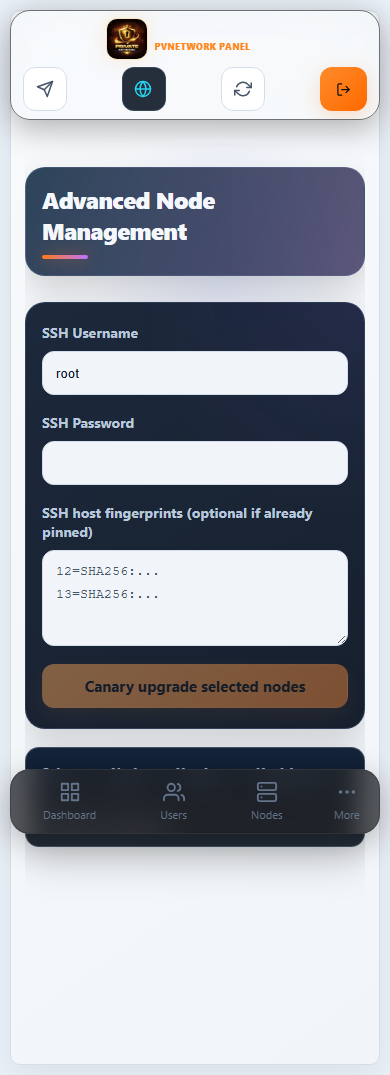
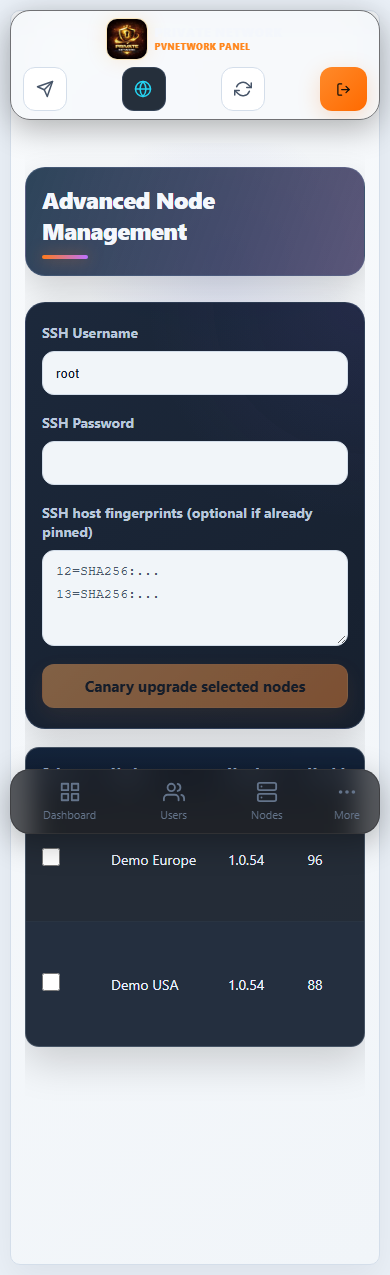
docs(PVN-1039): record verified deployment and public bootstrap evidence

diff --git a/docs/VALIDATION-v1.0.55.md b/docs/VALIDATION-v1.0.55.md
@@ -1,5 +1,21 @@
 # v1.0.55 validation checkpoint — PVN-1039
 
+Status: **verified QA; owner-authorized limited Production update complete**. Public supported stable remains v1.0.37. This checkpoint does not claim all broader mission/infrastructure/security-workbench gates are complete.
+
+## Final immutable release and execution
+
[1 lines of base64/hex data omitted]
+- Exact final source [push CI 39036177066](https://github.com/DashSaman/OV-PvNetwork/actions/runs/39036177066), [PR CI 39036180389](https://github.com/DashSaman/OV-PvNetwork/actions/runs/39036180389) and [tag CI 39036905674](https://github.com/DashSaman/OV-PvNetwork/actions/runs/39036905674) all passed four jobs. 729 discovered tests/80 explicit skips, separate 82 root fixtures, 38 security and 37 router tests/one explicit SSH skip; real dual-auth handshake, dependency audits and browser gates passed. The exact profile chooser probe made 8 actual browser downloads in 4 EN/FA/theme cases, and 24 real Jinja QR cases passed click/Enter/Space at native zoom levels. The final docs-only correction restored the README update entrypoint required by CI; no gate was removed.
+- [Official public bootstrap 39036984460](https://github.com/DashSaman/OV-PvNetwork/actions/runs/39036984460) passed all 3 real native distribution jobs: Ubuntu 22.04/24.04 and Debian 12. Each logged `public_bootstrap:true`, the exact SHA256 above, fresh/repeat preservation, systemd/proxy/UI/SQLite permissions and installed CLI PASS. These are disposable Setup Mode guests, not proof of public ACME/ARM/external-VPS networking.
+- Root-owned native PostgreSQL preflight backup `20261017-132259` restored/fingerprinted32 tables and verified5 runtime files/checksums. Exact canary restored an isolated clone, applied only the attested `h0a1b2c3d4e5 → i1b2c3d4e5f6` additive migration, and verified health/current UI bytes while the active application remained1.0.40. The final quiesced verified rollback backup is `20261017-134222`, retained privately under the native backup root and pinned by the transaction.
+- Owner-authorized limited native update then activated1.0.55. Durable transaction is `complete`, deployment receipt `VERIFIED`; local/public health, exact UI assets, authenticated read-only API and an existing assigned cached profile download all PASS. CA/certificate/private-key blocks and the node's cached profile remained unchanged; no account/profile provisioning was needed for the probe. Rooted adoption and the additive migration completed; no node adoption or firewall operation occurred.
+- All 74 user,1 admin, 4 node and 285 assignment identities were preserved. Runtime environment and VPN configuration hashes are byte-identical to preflight; the existing credential-key alias/target identity and all running co-hosted service MainPIDs were preserved by the deployment guard. Only the panel's required restart and managed Nginx graceful reload occurred; live VPN/old-node/PostgreSQL MainPIDs stayed unchanged. Panel automatic restart count is0; this counter does not count the intentional lifecycle restart.
+- Health sampling observed249 nonhealthy samples across a **267.99-second panel maintenance span** (about 4 min 28 s; nominal1-second delay plus request latency). This is measured panel availability, not a claim of zero downtime or interrupted VPN sessions. Final read-only check at2026-10-17T13:48:54Z: local/public200/version1.0.55, revision`i1b2c3d4e5f6`, all identity counts unchanged, no recent panel traceback/5xx lines. Installed `version`, `status` and `doctor` passed in both EN/FA (6 commands), preserving env and panel PID.
+- English/Persian README and UI/install/node/CLI/update guides are on main with80 synthetic current images. Four Fleet captures now show synthetic healthy/draining node rows rather than an empty table; phone instructions explain horizontal table scrolling. Local relative-link/anchor, PNG integrity/width, privacy-marker, node syntax and diff checks passed. No Production screenshots, profiles, raw diagnostics or credentials were published.
+
+فارسی: استقرار محدود و مجاز نسخه دقیق1.0.55 موفق است. سلامت محلی/عمومی، دانلود پروفایل موجود و شش بررسی CLI فارسی/انگلیسی پاس شدهاند. هویت حسابها، تخصیصها، کلیدها، تنظیمات و سرویسهای دیگر حفظ شدند؛ بازه اندازهگیریشده maintenance پنل حدود ۴ دقیقه و ۲۸ ثانیه بود. نسخه عمومی هنوز QA است و پایان تمام gateهای مأموریت اعلام نشده است.
+
+
 ## Scope and reproduced failure
 
 The owner authorized continuing the limited panel update with short panel maintenance. The exact immutable v1.0.54 attempt stopped before activation: the native snapshot rejected changing `data/app.log` during the PostgreSQL backup. The existing application remained v1.0.40. Metadata inspection identified only that append-only diagnostic log as changing; credential/push keys and SSH trust were stable. No new VPN/node/firewall changes are part of this authorization.
@@ -13,10 +29,10 @@ The patch excludes exactly `data/app.log` from native restorable runtime/source 
 - Local applicable metadata/brand/rename contracts: 18 pass. Native durable snapshot fixtures require Linux; Windows is not a substitute for those tests. Local frontend quiet lint and production build pass; largest JS chunk remains 987,783 bytes under the existing 990,000-byte gate.
 - Documentation: both READMEs, English/Persian illustrated UI, installation, node, CLI and update/recovery guides refreshed. 80 synthetic current captures cover 20 views × EN/FA × desktop/phone. The actual browser capture scripts and real Jinja subscription template use synthetic fixtures, abort external HTTP requests and include no Production data. Contact sheets and representative full-resolution forms inspected. Local relative links/anchors, PNG integrity/widths, Markdown fences and explicit private-marker checks passed. Documentation screenshots do not certify backend workflows or the complete responsive/accessibility matrix.
 
-## Remaining release gates
+## Broader limits and earlier gate checkpoint
 
-Final exact commit CI/artifact checksum, immutable QA publication and anonymous re-download, public bootstrap on the three supported distributions, fresh native PostgreSQL backup/restore rehearsal, exact canary and the authorized limited panel deployment/post-checks remain gates until results are recorded here. Do not infer Production activation from a GitHub merge or QA release.
+The final exact CI/artifact/public bootstrap/native backup/canary and authorized limited deployment gates listed at the initial source checkpoint are now satisfied by the evidence above. Stable promotion of the broader mission still requires resolving the explicitly uncompleted infrastructure/security-workbench items below. A GitHub merge or QA release alone is not Production evidence.
 
 Inherited evidence and limits are retained in [v1.0.54 validation](VALIDATION-v1.0.54.md). Public ACME issuance, ARM and a separate empty external VPS have not been fully validated in this mission. The original native security workbench remains partial/unsealed; five validated findings were fixed in v1.0.46/v1.0.50. No independent completed security certificate or formal FINAL/100% claim is made.
 
-فارسی: خطای تغییر همزمان لاگ روی Linux بازتولید و پس از اصلاح محدود، هر سه آزمون بکاپ/بازیابی و کنترل ثبات پاس شدند. مستندات دوزبانه و ۸۰ تصویر فقط Demo هستند. فعالسازی Production، انتشار پایدار و پایان کامل مأموریت تا ثبت gateهای باقیمانده اعلام نشدهاند.
+فارسی: خطای تغییر همزمان لاگ روی Linux بازتولید و پس از اصلاح محدود، هر سه آزمون بکاپ/بازیابی و کنترل ثبات پاس شدند. مستندات دوزبانه و ۸۰ تصویر فقط Demo هستند. فعالسازی محدود Production طبق شواهد بالای این گزارش کامل شده است؛ انتشار پایدار و پایان کل مأموریت همچنان به gateهای گستردهتر وابستهاند.

diff --git a/AGENTS.md b/AGENTS.md
@@ -72,7 +72,7 @@ Before implementation, record the task and target release here **and commit/push
 
 ### Active release ledger
 
-- `v1.0.55` — [~] IN_PROGRESS — `PVN-1039` active diagnostic log isolation in native snapshots. The owner authorized the limited panel update/short maintenance; the exact v1.0.54 update stopped before activation when `data/app.log` changed during the native database snapshot. Live application remains v1.0.40. Exclude only that known append-only diagnostic file from the restorable runtime and source snapshots; retain unknown `.log` files, SSH trust and credential/push keys with unchanged consistency checks. Real Linux synthetic fixtures reproduced the exact failure, then all three passed after the correction: active-log backup plus actual SQLite restore, changed-key refusal and unknown-log refusal. No Production identity/config/key/node/firewall mutation by the correction. Final exact artifact, CI, public bootstrap, fresh verified rollback point, canary and authorized limited deployment remain required. Bilingual illustrated documentation is part of this active task. Documentation prepared: refreshed English/Persian README and step-by-step UI, install, node, CLI and update/recovery manuals; 80 synthetic current captures (20 views × two languages × desktop/phone), source/template capture helpers, 227 local documentation links checked and explicit private-marker scan clean. No Production screenshots/customer data used. Documentation is not a service execution certificate.
+- `v1.0.55` — [x] VERIFIED LIMITED SCOPE — `PVN-1039` active diagnostic-log isolation in native snapshots and bilingual illustrated documentation. Exact40bbc0899ff54633f24bb42e25fbd4ae1b6918a2 / SHA25633034623f2b4f2d97a6f965e58b7eba7a6d1d02e44bc8bf1af8b0f9e4be1d83d passed push/PR/tag CI and official public bootstrap39036984460 on all 3 supported distributions. QA55 public tag/assets anonymously checksum-verified; PR71 merged1afdac9 with an identical tree. Native PostgreSQL backup/restore32tables,5runtimefiles/checksums and exact canary PASS; final quiesced rollback backup20261017-134222 retained privately. Owner-authorized limited update activated1.0.55; durable transaction complete/receiptVERIFIED. Local/publichealth/UI/API/cached-profiledownload and EN/FA installedCLI6read-only checks PASS;74users/1admin/4nodes/285assignments, env/key/VPNconfigs and all running co-hosted MainPIDs preserved. Sampled panel maintenance267.99seconds, not zero downtime; no new node/VPN/firewall operation. Both READMEs and EN/FA step-by-step UI/install/node/CLI/update guides with80synthetic images are public. See docs/VALIDATION-v1.0.55.md. Broader ACME/ARM/external-VPS/security-workbench gates stay explicit; QA is not overall FINAL/stable promotion.
 
 - `v1.0.54` — [~] IN_PROGRESS — `PVN-1038` default profile-download node selection. Actual Chromium on the unchanged v1.0.53 frontend showed node 1 selected but sent zero profile requests and displayed "Selected node not found." The initial state stores an address while option values and lookup require an ID. Keep the initial/changed selection consistently as node IDs, preserve assigned-node authorization and actual download behavior, and add an EN/FA browser regression for untouched default, explicit selection and empty/failed node lists. No Production mutation is authorized. v1.0.53 public bootstrap passed all three supported distributions but stays QA pending this core workflow correction.
 

diff --git a/README.md b/README.md
@@ -6,7 +6,7 @@ PVNetwork manages OpenVPN users, subscriptions, resellers and nodes from a multi
 
 ## Release status and changes
 
-**v1.0.55 is a QA candidate.** v1.0.54 is an immutable published prerelease; the last supported stable release remains v1.0.37. Read [validation evidence and limits](docs/VALIDATION-v1.0.54.md) and the target release notes before installing or updating.
+**v1.0.55 is verified QA, deployed through the owner-authorized limited panel update.** Its exact CI, public bootstrap on three distributions, native backup/canary and Production post-checks passed. The last supported stable release remains v1.0.37 pending broader mission gates. Read [validation evidence and limits](docs/VALIDATION-v1.0.55.md) and the target release notes before installing or updating.
 
 Since v1.0.54: the native backup excludes only the panel's actively written diagnostic `data/app.log`; credential keys, SSH trust and other state retain their consistency checks. The log stays on the server. This resolves an update that stopped before activation. [English release notes](docs/RELEASE-NOTES-v1.0.55.md) · [تغییرات فارسی](docs/RELEASE-NOTES-v1.0.55.fa.md).
 
@@ -22,7 +22,7 @@ Screenshots show the current web interface using synthetic Demo data. They conta
 4. Test an actual VPN connection and usage accounting on your test node before serving customers. A green panel or a downloaded profile alone does not prove tunnel connectivity.
 5. Make a verified private backup and read [updates and recovery](docs/UPDATES.md) before changes to an existing installation.
 
-The version-pinned QA command below is for **fresh-server evaluation after the v1.0.55 release assets exist**. Do not use Fresh Install to replace an existing panel.
+The version-pinned QA command below is for **fresh-server evaluation using the published immutable v1.0.55 assets**. Do not use Fresh Install to replace an existing panel.
 
 ```bash
 bash <(curl -fsSL https://raw.githubusercontent.com/DashSaman/OV-PvNetwork/v1.0.55/install.sh)
@@ -69,7 +69,7 @@ sudo pvnetwork backup --json
 sudo pvnetwork jobs --json
 ```
 
-Ubuntu 22.04/24.04 and Debian 12 have exact v1.0.54 native fresh/repeat/public-bootstrap evidence. Public ACME issuance, ARM and a separate empty external VPS are explicitly not fully validated in this mission. Final v1.0.55 CI, artifact and authorized deployment remain gates until recorded. The original security workbench is partial/unsealed; five validated findings were corrected in v1.0.46/v1.0.50. This README does not assert a completed independent security certification.
+Ubuntu 22.04/24.04 and Debian 12 have exact v1.0.55 native fresh/repeat/public-bootstrap evidence. Public ACME issuance, ARM and a separate empty external VPS are explicitly not fully validated in this mission. Exact v1.0.55 CI, public artifact/bootstrap and the authorized limited Production deployment are verified in the linked evidence; measured panel maintenance was about 4 min 28 s, with co-hosted VPN/service identities preserved. The original security workbench is partial/unsealed; five validated findings were corrected in v1.0.46/v1.0.50. This README does not assert a completed independent security certification.
 
 ## Documentation and security
 

diff --git a/CHANGELOG.md b/CHANGELOG.md
@@ -1,8 +1,8 @@
-## v1.0.55 candidate — PVN-1039: Live diagnostic log backup policy
+## v1.0.55 verified QA — PVN-1039: Live diagnostic log backup policy
 
 - Exclude only panel `data/app.log` from native restorable runtime/source snapshots. Active diagnostic writes no longer invalidate an otherwise consistent database/key snapshot. The original log remains on the host; this backup is not a log archive.
 - Keep all key/trust files and unknown `.log` files in the existing consistency checks. A key or unknown state-file change still refuses verification.
-- Actual Linux regression: reproduced pre-fix failure; three corrected fixtures pass, including real SQLite restore and negative integrity checks. Exact CI/artifact/public bootstrap and authorized Production verification remain gates.
+- Actual Linux red/green regression and all exact CI/artifact/public-bootstrap/native backup/canary gates passed. Owner-authorized limited panel update activated1.0.55 with local/public health, cached-profile download and installed EN/FA CLI verified; all identities, env/key/VPN configs and co-hosted MainPIDs preserved. Sampled panel maintenance267.99seconds. [Validation](docs/VALIDATION-v1.0.55.md); broader stable/mission gates remain explicit.
 - فارسی: نوشتن همزمان لاگ تشخیصی دیگر بکاپ معتبر را متوقف نمیکند؛ کنترل ثبات کلیدها و فایلهای دیگر حفظ شده است. لاگ روی میزبان باقی میماند.
 
 ## v1.0.54 candidate — PVN-1038: Default profile node identity

diff --git a/docs/RELEASE-NOTES-v1.0.55.fa.md b/docs/RELEASE-NOTES-v1.0.55.fa.md
@@ -1,5 +1,7 @@
 # نامزد v1.0.55 — PVN-1039
 
+نتیجه جاری: CI دقیق، دانلود/bootstrap رسمی، بکاپ/canary و فعالسازی محدود مجاز1.0.55 تأیید شدهاند. متن زیر checkpoint سورس ثابت را حفظ میکند؛ [شواهد جاری](VALIDATION-v1.0.55.md) نتیجه و محدودیت گستردهتر را ثبت کرده است.
+
 استقرار مجاز v1.0.54 پیش از فعالسازی متوقف شد؛ چون فایل تشخیصی `data/app.log` هنگام بکاپ دیتابیس تغییر میکرد. این اصلاح فقط همین فایل را از آرشیو وضعیت قابلبازیابی و سورس کنار میگذارد. لاگ زنده حذف یا خالی نمیشود. ثبات و checksum فایلهای دیگر، لاگهای ناشناخته، اعتماد SSH و کلیدهای رمزگذاری و Push همچنان کنترل میشود.
 
 آزمون واقعی Linux ابتدا همان خطا را بازتولید کرد و پس از اصلاح، هر سه حالت پاس شدند: بکاپ با نوشتن همزمان لاگ و بازیابی واقعی SQLite، رد تغییر کلید و رد تغییر فایل ناشناخته. رابط کاربری، schema، VPN، نود، مسیر و فایروال در این patch تغییر نکردهاند؛ تصاویر Demo نسخه 1.0.54 همین رابط را نمایش میدهند.

diff --git a/docs/INSTALLATION.fa.md b/docs/INSTALLATION.fa.md
@@ -6,7 +6,7 @@
 
 نصب تازه برای مقصد خالی و واجد شرایط پنل است. وجود `/opt/pvnetwork-panel`، unit/site پنل، دیتابیس غیرخالی یا اشغال پورت لازم یعنی باید مسیر ارتقا/پذیرش بررسیشده نصب موجود را دنبال کنید. روی پنل فعال دوباره نصب تازه اجرا نکنید.
 
-کنترل میزبان Ubuntu 22.04/24.04 و Debian 12، معماری x86_64/aarch64، حداقل RAM یک GiB و دیسک آزاد سه GiB را پوشش میدهد. شواهد واقعی نصب v1.0.54 برای سه توزیع موجود است؛ ARM و ACME عمومی واقعی gate تکمیلنشده جدا دارند. v1.0.55 نامزد QA است؛ فرمان آن را فقط پس از موجود شدن assetهای تغییرناپذیر و خواندن یادداشت نسخه اجرا کنید.
+کنترل میزبان Ubuntu 22.04/24.04 و Debian 12، معماری x86_64/aarch64، حداقل RAM یک GiB و دیسک آزاد سه GiB را پوشش میدهد. شواهد واقعی نصب v1.0.55 برای سه توزیع موجود است؛ ARM و ACME عمومی واقعی gate تکمیلنشده جدا دارند. v1.0.55 نامزد QA است؛ فرمان آن را فقط پس از موجود شدن assetهای تغییرناپذیر و خواندن یادداشت نسخه اجرا کنید.
 
 ## ۲. نصب در Setup Mode خصوصی
 

diff --git a/docs/CLI.fa.md b/docs/CLI.fa.md
@@ -30,7 +30,7 @@ sudo pvnetwork recover --yes --json
 
 کد خروج: ۰ موفق، ۶۴ آرگومان نامعتبر، ۶۹ ناسالم/در دسترس نیست، ۷۰ خطای عملیات، ۷۵ مشغول/نیازمند بازیابی، ۷۷ نیازمند root/تأیید، ۱۳۰ قطعشده. پاسخ صف بهمعنای پایان موفق نیست؛ وضعیت نهایی کار را بررسی کنید.
 
-شواهد و gateهای باقیمانده در [اعتبارسنجی](VALIDATION-v1.0.54.md) ثبت شدهاند. نسخه v1.0.55 تا ثبت نتیجه CI دقیق، آرشیو/نصب عمومی و استقرار مجاز QA میماند. [تغییر بکاپ](RELEASE-NOTES-v1.0.55.fa.md) · [راهنمای تصویری](UI-GUIDE.fa.md) · [English](CLI.md).
+شواهد و gateهای باقیمانده در [اعتبارسنجی](VALIDATION-v1.0.55.md) ثبت شدهاند. نسخه v1.0.55 همچنان QA است؛ CI دقیق، آرشیو/نصب عمومی و استقرار محدود مجاز اکنون تأیید شدهاند. [تغییر بکاپ](RELEASE-NOTES-v1.0.55.fa.md) · [راهنمای تصویری](UI-GUIDE.fa.md) · [English](CLI.md).
 
 ## راهنمای تکتک گزینهها
 

diff --git a/docs/CLI.md b/docs/CLI.md
@@ -50,7 +50,7 @@ TLS renewal selects the one ACME certificate used by the managed panel site. It 
 
 Exit codes: 0 success; 64 invalid usage; 69 unhealthy/unavailable; 70 operation failure; 75 busy/pending recovery; 77 root/confirmation required; 130 interrupted. A queued node/settings response indicates acceptance; inspect its terminal status before treating an operation as successful.
 
-Current release evidence and remaining gates are recorded in [validation](VALIDATION-v1.0.54.md). v1.0.55 is QA until exact artifact, CI/public bootstrap and authorized Production verification are recorded. The native snapshot log policy is described in [release notes](RELEASE-NOTES-v1.0.55.md). [Illustrated web manual](UI-GUIDE.md) · [فارسی](CLI.fa.md).
+Current release evidence and remaining gates are recorded in [validation](VALIDATION-v1.0.55.md). v1.0.55 remains QA; exact artifact, CI/public bootstrap and the owner-authorized limited Production deployment are now verified. The native snapshot log policy is described in [release notes](RELEASE-NOTES-v1.0.55.md). [Illustrated web manual](UI-GUIDE.md) · [فارسی](CLI.fa.md).
 
 ## First operational session
 

diff --git a/docs/RELEASE-NOTES-v1.0.55.md b/docs/RELEASE-NOTES-v1.0.55.md
@@ -1,5 +1,7 @@
 # v1.0.55 candidate — PVN-1039
 
+Current outcome: exact CI, immutable/public-download bootstrap, native backup/canary and owner-authorized limited Production activation1.0.55 are verified. The paragraphs below preserve the frozen source checkpoint; [current evidence](VALIDATION-v1.0.55.md) records the outcome and remaining broader limits.
+
 The authorized v1.0.54 update stopped before activation because the panel's append-only `data/app.log` changed during the database snapshot. This patch excludes exactly that diagnostic output from restorable runtime and source archives. It does not delete or truncate the live log. Unknown `.log` files, SSH trust, credential keys and push keys remain covered by unchanged stability and checksum checks.
 
 Real Linux synthetic tests reproduced the original exception, then passed the active-log backup with actual SQLite restore, changed-key refusal and unknown-log refusal after correction. No application UI, database schema, VPN, node, route or firewall behavior changes in this patch. Current v1.0.54 synthetic UI images describe the identical interface.

diff --git a/docs/INSTALLATION.md b/docs/INSTALLATION.md
@@ -6,7 +6,7 @@
 
 Fresh installation is for an eligible empty panel target. An existing `/opt/pvnetwork-panel`, panel unit/site, nonempty database or occupied required port is a reason to use the existing installation's verified update/adoption path. Do not reinstall over a working panel.
 
-Supported host checks cover Ubuntu 22.04/24.04 and Debian 12, x86_64/aarch64, at least 1 GiB RAM and 3 GiB free disk. Actual v1.0.54 native installation evidence covers the three distributions; ARM and real public ACME remain separate uncompleted gates. v1.0.55 is a QA candidate; use the command only once its immutable release assets exist and after reviewing its release notes.
+Supported host checks cover Ubuntu 22.04/24.04 and Debian 12, x86_64/aarch64, at least 1 GiB RAM and 3 GiB free disk. Actual v1.0.55 native installation evidence covers the three distributions; ARM and real public ACME remain separate uncompleted gates. v1.0.55 is a QA candidate; use the command only once its immutable release assets exist and after reviewing its release notes.
 
 ## 2. Install in private Setup Mode
 

diff --git a/docs/UI-GUIDE.fa.md b/docs/UI-GUIDE.fa.md
@@ -167,6 +167,7 @@ Router/MikroTik اختیاری است. آن را هنگام ساخت/تنظیم 
 ![مدیریت پیشرفته](images/v1.0.54/fa/desktop/fleet.png)
 
 1. پیش از ارسال تعمیر، mode، نسخه، امتیاز سلامت، وضعیت و job فعال نود را ببینید.
+   در موبایل، جدول نود را افقی اسکرول کنید تا ستون وضعیت و عملیات در دسترس باشد.
 2. اطلاعات SSH را خصوصی بدهید و برای اعتماد جدید، fingerprint میزبان را از مسیر مستقل بررسی کنید.
 3. ابتدا یک نود واجد شرایط را canary ارتقا دهید. مرحلهها و نتیجه نهایی هر job را بخوانید؛ پذیرفته شدن به معنی تکمیل نیست.
 4. drain/maintenance با ارتقای کد agent فرق دارد. ارتقای کد باید VPN جاری، کلید و شمارنده مصرف را حفظ کند؛ بعد از job این موارد را بررسی کنید.
